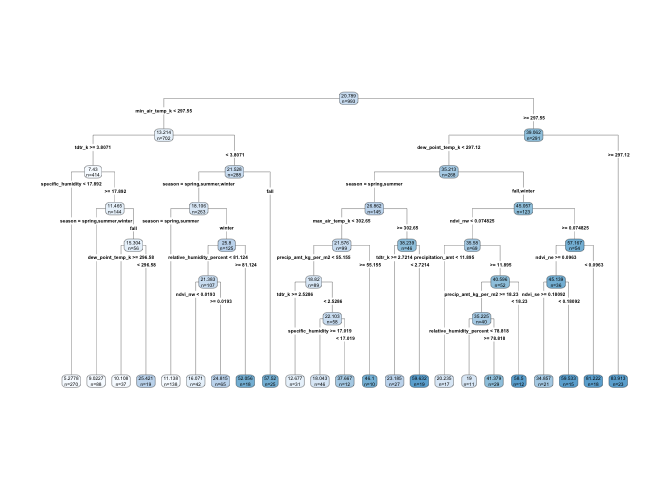
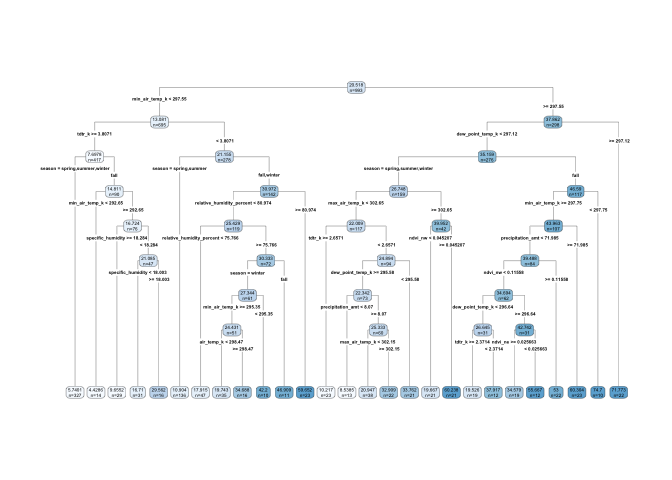
submit

Changed region(s): [[0.0625, 0.1875, 0.9375, 0.8438], [0.5, 0.1562, 0.5625, 0.2188]]

diff --git a/Exercise 3/ECO-395M-exercise-3.md b/Exercise 3/ECO-395M-exercise-3.md
@@ -79,9 +79,9 @@ class and adopted in my base model to evaluate performance.
 
 Out-of-sample RMSEs for un-pruned CART and pruned CART is,
 
-    ## [1] 25.71185
+    ## [1] 31.94692
 
-    ## [1] 25.58521
+    ## [1] 33.17605
 
 Result shows pruned CART gives a little bit higher RMSE compared to
 un-pruned CART. This is due to the fact that pruned CART has higher bias
@@ -103,7 +103,7 @@ of random forest eliminates need for cross validation.
 
 Out-of-sample RMSEs for random forests is,
 
-    ## [1] 24.25211
+    ## [1] 29.37059
 
 #### Gradient Boosted trees to predict dengue cases
 
@@ -114,7 +114,7 @@ plotted error curve, which is deviance plot.
 
 ![](ECO-395M-exercise-3_files/figure-markdown_strict/problem%202.Gradient_boosted.1-1.png)
 
-    ## [1] 55
+    ## [1] 63
 
 The green line is our cross validated error. The x-axis of error curve
 is number of iterations and y-axis of error curve is deviance of the
@@ -123,7 +123,7 @@ best number of iteration minimizing error.
 
 Out-of-sample RMSEs for Gradient boosted tree is,
 
-    ## [1] 23.45922
+    ## [1] 29.90737
 
 ##### Checking model performance with out-of-sample RMSEs for each models
 
@@ -144,7 +144,7 @@ RMSE
 Un-pruned Tree
 </td>
 <td style="text-align:right;">
-25.71185
+31.94692
 </td>
 </tr>
 <tr>
@@ -152,7 +152,7 @@ Un-pruned Tree
 Pruned Tree
 </td>
 <td style="text-align:right;">
-25.58521
+33.17605
 </td>
 </tr>
 <tr>
@@ -160,7 +160,7 @@ Pruned Tree
 Random Forest
 </td>
 <td style="text-align:right;">
-24.25211
+29.37059
 </td>
 </tr>
 <tr>
@@ -168,7 +168,7 @@ Random Forest
 Gradient Boosting
 </td>
 <td style="text-align:right;">
-23.45922
+29.90737
 </td>
 </tr>
 </tbody>
@@ -281,7 +281,7 @@ RMSE
 Linear model
 </td>
 <td style="text-align:right;">
-1104.3472
+965.6555
 </td>
 </tr>
 <tr>
@@ -289,7 +289,7 @@ Linear model
 Improved linear model
 </td>
 <td style="text-align:right;">
-1086.4005
+961.9022
 </td>
 </tr>
 <tr>
@@ -297,7 +297,7 @@ Improved linear model
 Tree model
 </td>
 <td style="text-align:right;">
-1035.8887
+981.7064
 </td>
 </tr>
 <tr>
@@ -305,7 +305,7 @@ Tree model
 Pruned tree model
 </td>
 <td style="text-align:right;">
-1076.9486
+1024.4833
 </td>
 </tr>
 <tr>
@@ -313,7 +313,7 @@ Pruned tree model
 Random forest model
 </td>
 <td style="text-align:right;">
-822.0089
+706.5167
 </td>
 </tr>
 <tr>
@@ -321,7 +321,7 @@ Random forest model
 Boosted model
 </td>
 <td style="text-align:right;">
-850.2558
+845.5062
 </td>
 </tr>
 </tbody>
@@ -354,7 +354,7 @@ RMSE
 CART
 </td>
 <td style="text-align:right;">
-67900.82
+68507.38
 </td>
 </tr>
 <tr>
@@ -362,7 +362,7 @@ CART
 Random Forest
 </td>
 <td style="text-align:right;">
-51540.28
+52880.92
 </td>
 </tr>
 <tr>
@@ -370,7 +370,7 @@ Random Forest
 Gradient-Boosted Tree
 </td>
 <td style="text-align:right;">
-56834.93
+56726.89
 </td>
 </tr>
 </tbody>
